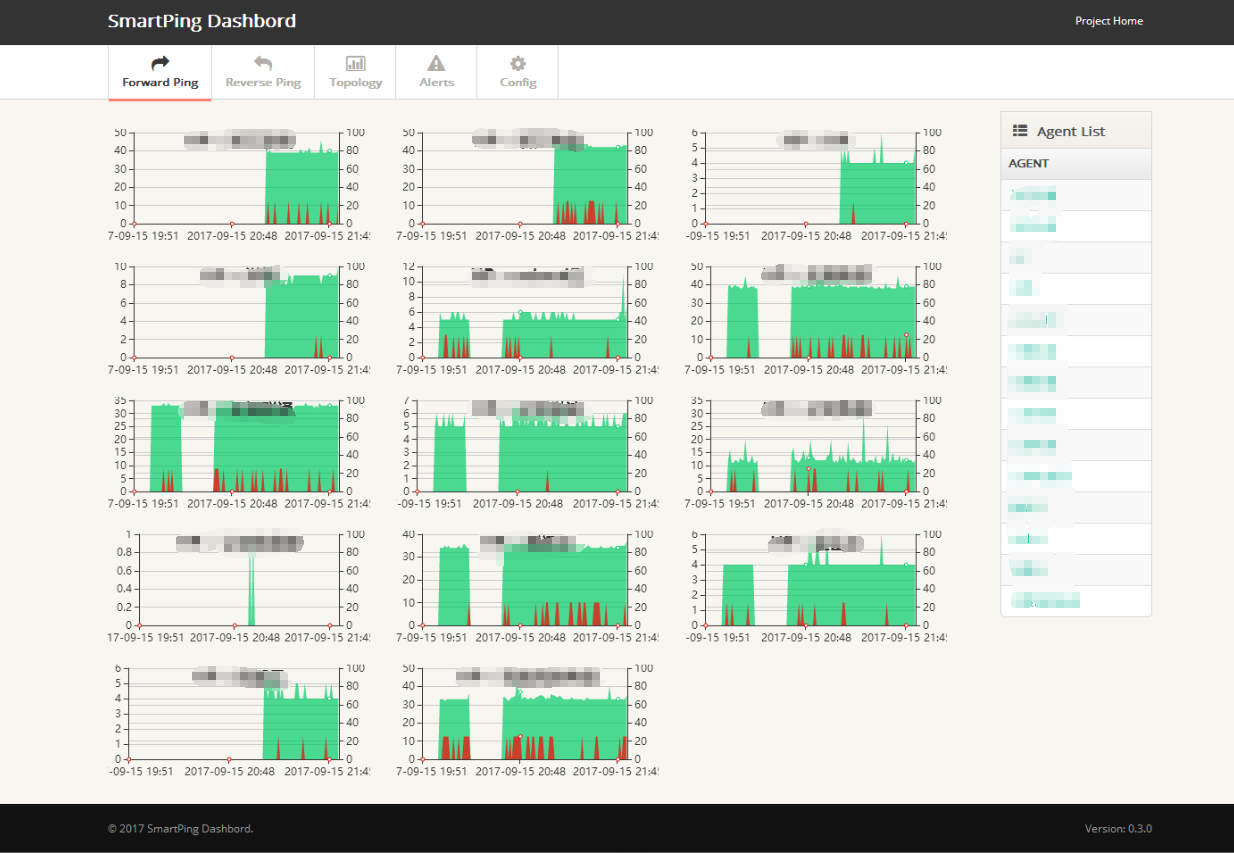
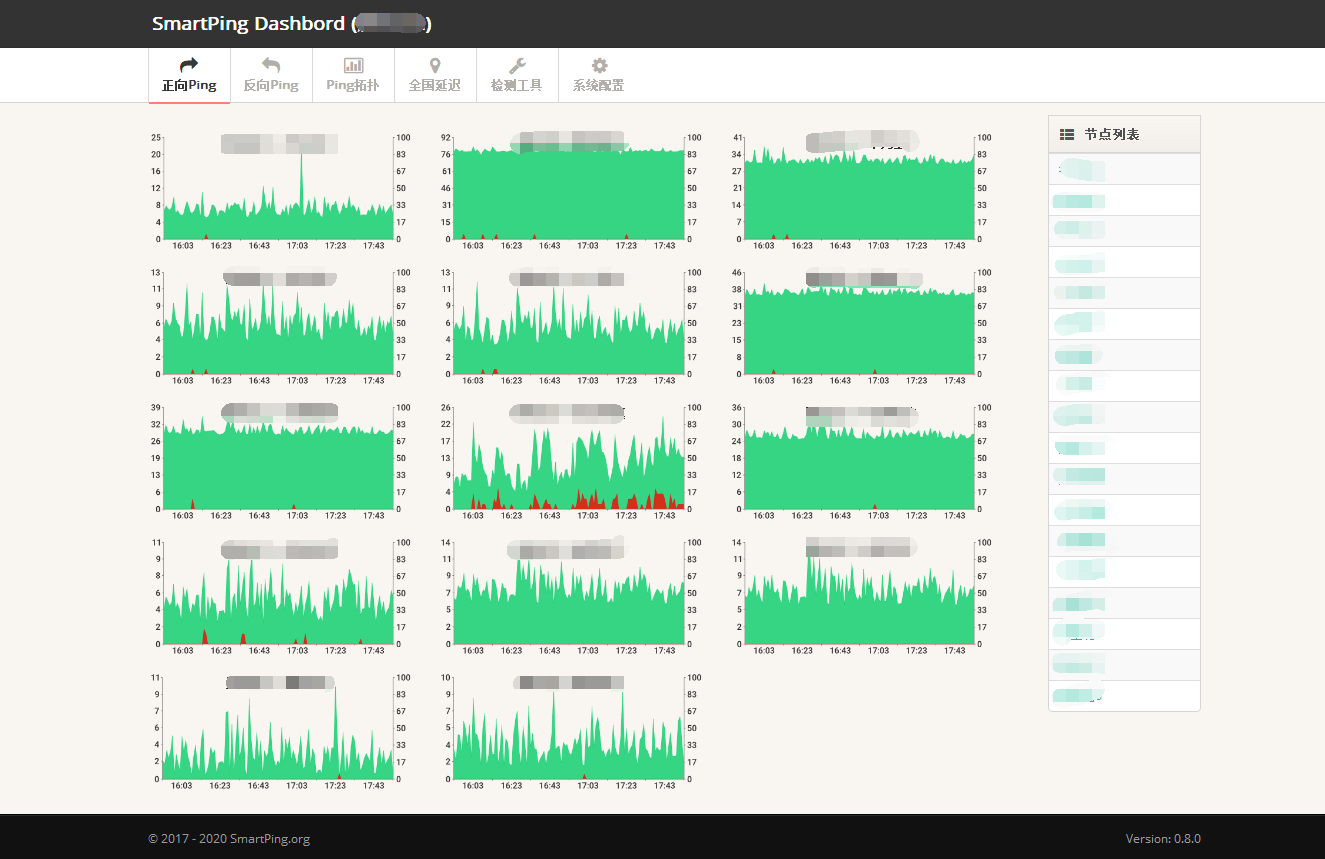
0.8.0 website

Changed region(s): [[0.0, 0.1524, 1.0, 1.0], [0.5543, 0.1219, 0.893, 0.823], [0.0, 0.0, 1.0, 0.1219]]

diff --git a/index.html b/index.html
@@ -49,7 +49,7 @@
 		  <ul class="nav navbar-nav">
 			<li class="active"><a href="#home" class="smothscroll">首页</a></li>
 			  <li><a href="https://docs.smartping.org/" target="_blank">文档</a></li>
-			  <li><a href="https://docs.smartping.org/install.html" target="_blank"><span class="glyphicon glyphicon-save" aria-hidden="true"></span>下载安装</a></li>
+			  <li><a href="https://docs.smartping.org/install/" target="_blank"><span class="glyphicon glyphicon-save" aria-hidden="true"></span>下载安装</a></li>
 			<li><a href="https://github.com/smartping/smartping" target="_blank">Github Project</a></li>
 		  </ul>
 		</div><!--/.nav-collapse -->
@@ -67,17 +67,17 @@
 			</div>
 			<div class="col-lg-2">
 				<h5>功能</h5>
-				<p>支持正/反向PING绘图与时间查询，支持组网后的拓扑显示，支持报警规则设定。</p>
+				<p>支持正/反向PING绘图、组网拓扑显示，全国延迟</p>
 				<img class="hidden-xs hidden-sm hidden-md" src="assets/img/arrow1.png">
 			</div>
 			<div class="col-lg-8">
-				<img class="img-responsive" src="assets/img/app-bg.png" alt="">
+				<img class="img-responsive" src="assets/img/index.png" alt="">
 			</div>
 			<div class="col-lg-2">
 				<br>
 				<img class="hidden-xs hidden-sm hidden-md" src="assets/img/arrow2.png">
 				<h5>特性</h5>
-				<p>Go语言编写，跨平台；去中心化设计，数据自动周期性清理免维护.</p>
+				<p>Go语言编写，跨平台；去中心化设计</p>
 			</div>
 		</div>
 	</div> <!--/ .container -->
@@ -91,7 +91,7 @@
 			<div class="col-lg-4">
 				<img src="assets/img/intro01.png" alt="">
 				<h3>开源</h3>
-				<p>代码100%开源并可无条件免费使用。所有的源代码均通过 <a target="_blank" href="https://github.com/gy-games/smartping/blob/master/LICENSE">Apache</a> 授权协议并托管在 <a target="_blank" href="https://github.com/gy-games/smartping">GitHub</a> 上。</p>
+				<p>代码100%开源并可无条件免费使用。所有的源代码均通过 <a target="_blank" href="https://github.com/smartping/smartping/blob/master/LICENSE">Apache</a> 授权协议并托管在 <a target="_blank" href="https://github.com/smartping/smartping">GitHub</a> 上。</p>
 			</div>
 			<div class="col-lg-4">
 				<img src="assets/img/intro02.png" alt="">
@@ -101,7 +101,7 @@
 			<div class="col-lg-4">
 				<img src="assets/img/intro03.png" alt="">
 				<h3>无中心化</h3>
-				<p>独特的 <a  target="_blank" href="https://docs.smartping.org/arch/decentralized.html">去中心化</a>、<a href="https://docs.smartping.org/arch/data.html"  target="_blank">数据循环</a> 写入设计，并采用嵌入式数据库 <a href="https://www.sqlite.org/" target="_blank">Sqlite</a> 进行数据存数。</p>
+				<p>独特的 <a  target="_blank" href="https://docs.smartping.org/arch/decentralized.html">去中心化</a>设计，并采用嵌入式数据库 <a href="https://www.sqlite.org/" target="_blank">Sqlite</a> 进行数据存数。</p>
 			</div>
 		</div>
 		<br>
@@ -115,13 +115,24 @@
 		<div class="row">
 			<h1 class="centered"  style="margin-top: -25px;">功能截图</h1>
 			<br>
-			<div class="col-lg-6 centered">
+			<div class="col-lg-6 centered" >
 				正/反向PING
-			<img class="centered" src="assets/img/index.png" alt="" style="width:93%">
+			<img class="centered" src="assets/img/index.png" alt="" style="width:100%">
+			</div>
+			<div class="col-lg-6 centered" style="text-align:center">
+                PING拓扑
+				<img class="centered" src="assets/img/topology.png" alt="" style="width:97%">
+			</div>
+		</div>
+        <br/>
+        <div class="row">
+            <div class="col-lg-6 centered">
+				全国延迟
+			<img class="centered" src="assets/img/map.png" alt="" style="width:98%">
 			</div>
 			<div class="col-lg-6 centered">
-                互PING拓扑
-				<img class="centered" src="assets/img/topology.png" alt="" style="width:100%">
+                检测工具
+				<img class="centered" src="assets/img/tools.png" alt="" style="width:100%;">
 			</div>
 		</div>
 	</div><!--/ .container -->
@@ -140,7 +151,7 @@
 					<a href="https://github.com/gy-games/smartping/releases" target="_blank" style="color:white">Release 下载</a>
 				</li>
 				<li>
-					<a href="https://docs.smartping.org/api.html" target="_blank" style="color:white">Api 文档</a>
+					<a href="https://docs.smartping.org/api/" target="_blank" style="color:white">Api 文档</a>
 				</li>
 				<li>
 					交流QQ群 : <a target="_blank" href="//shang.qq.com/wpa/qunwpa?idkey=dd689e43fd8ecfeb28bffc31d53cb058c6ea23263aa1a34fc032efaf91aae924"><img border="0" src="//pub.idqqimg.com/wpa/images/group.png" alt="SmartPing" title="SmartPing"></a>
